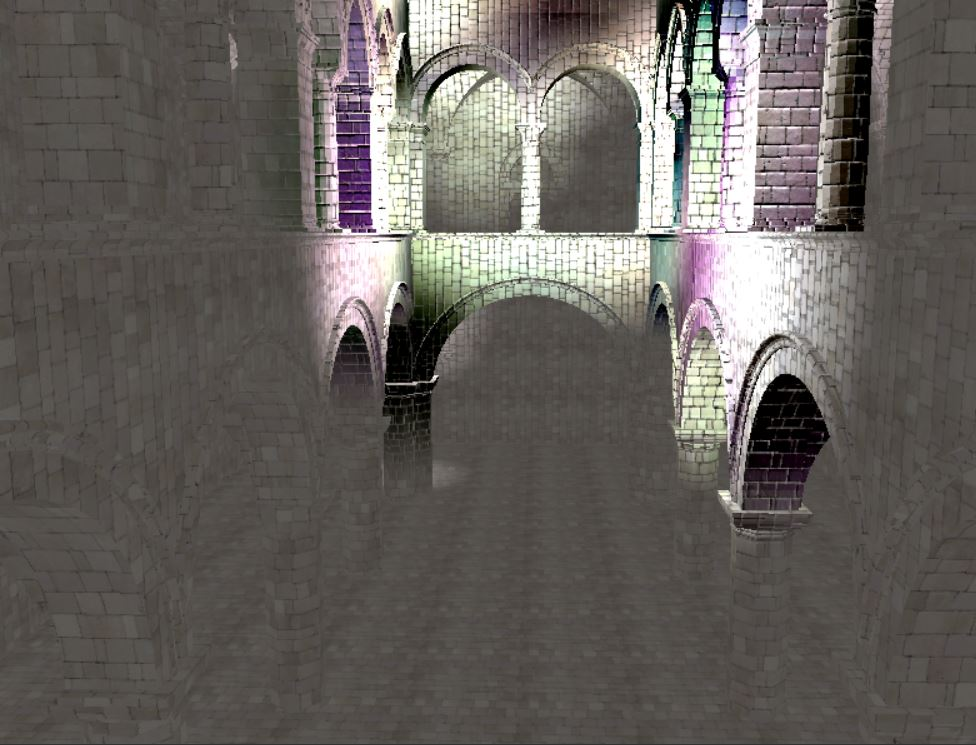
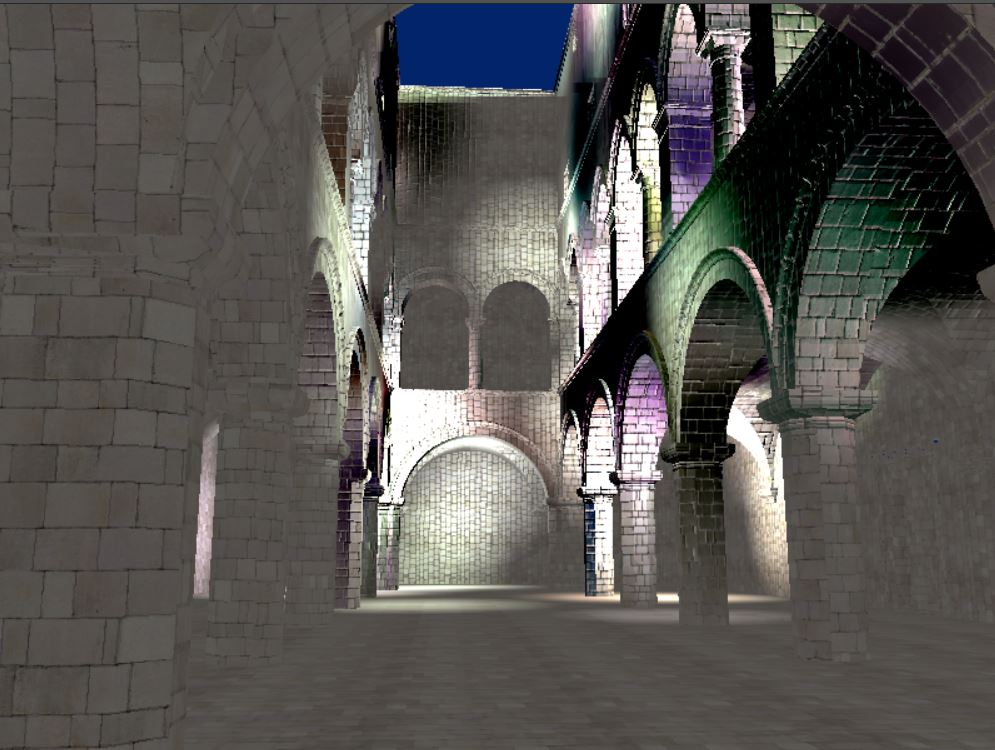
edge hightliht

diff --git a/README.md b/README.md
@@ -7,13 +7,12 @@ WebGL Deferred Shading
 * Tested on: (TODO) **Google Chrome 222.2** on
   Windows 22, i7-2222 @ 2.22GHz 22GB, GTX 222 222MB (Moore 2222 Lab)
 
-With toon
+With toon |  No toon | Edge Highlint
 
-[![](img/toon.JPG)]
+![](img/toon.JPG) | ![](img/notoon.JPG) |![](img/edge.JPG)
 
-No toon
 
-[![](img/notoon.JPG)]
+
 
 
 ### Live Online
